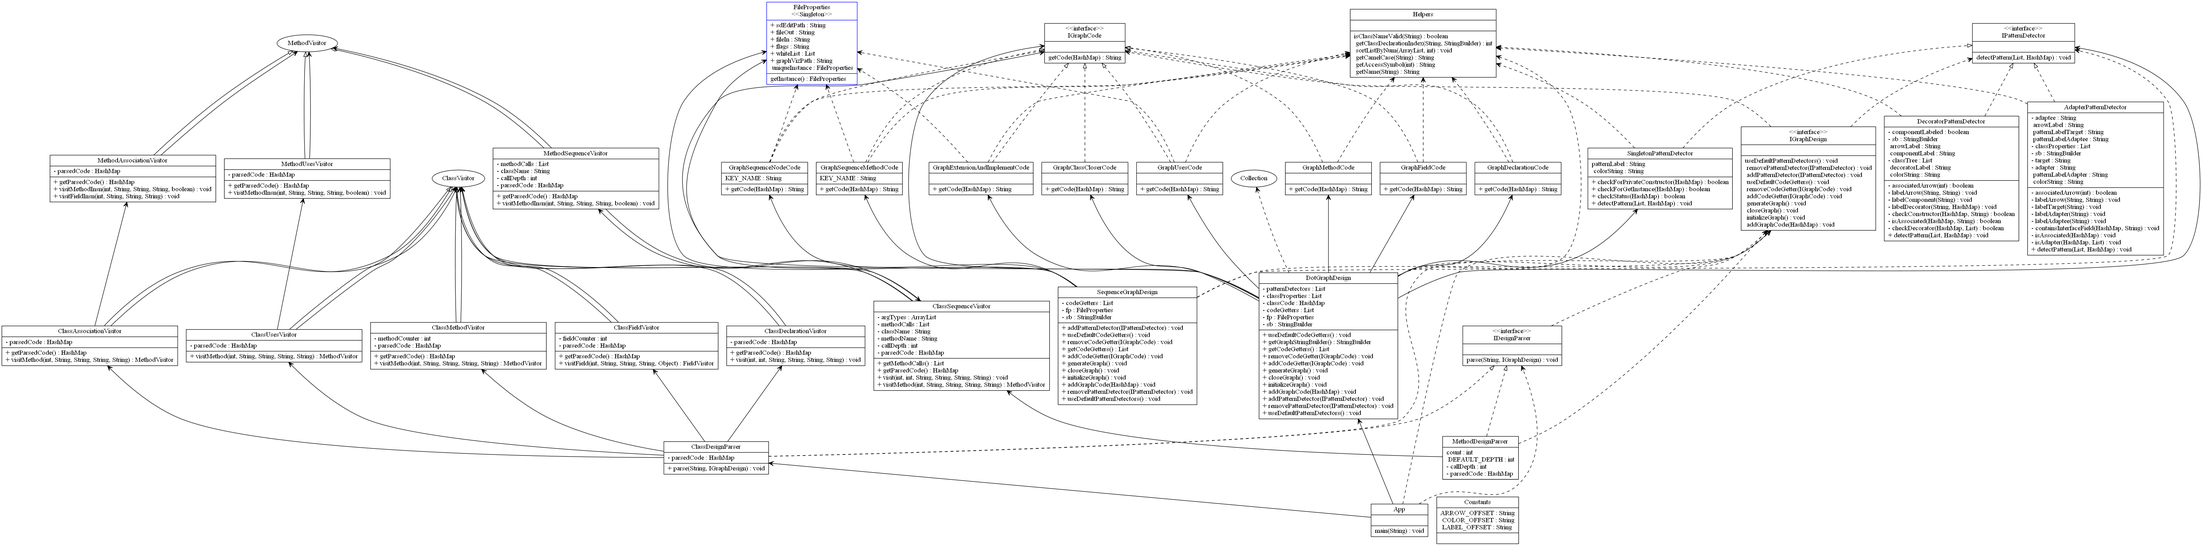
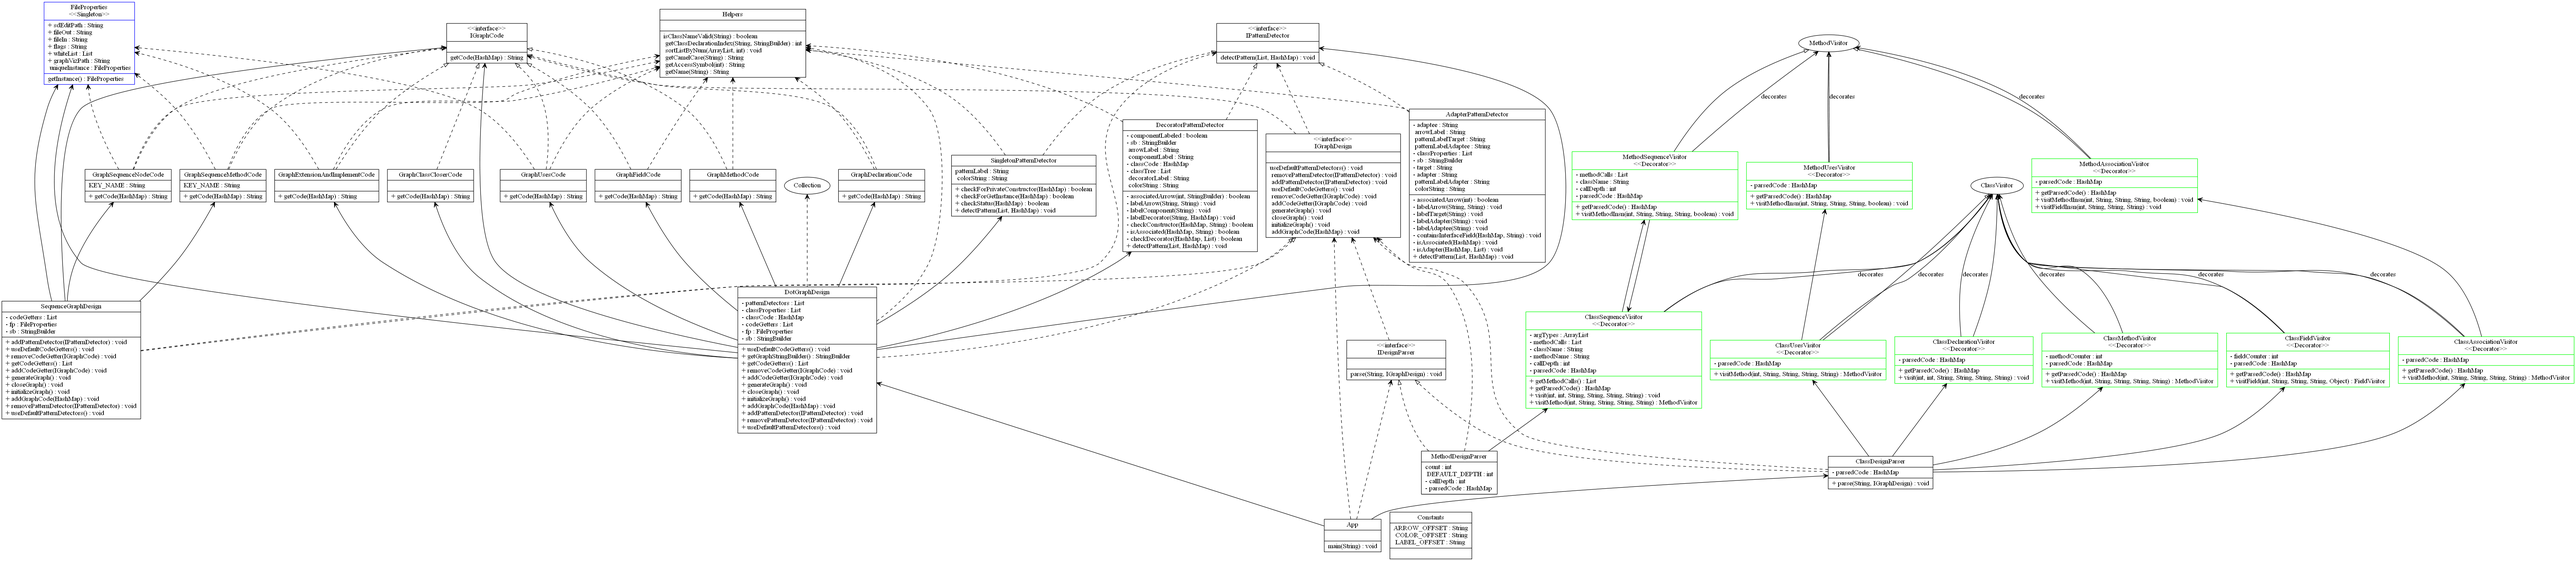
Refactored Decorator detector, works again

diff --git a/src/problem/patterns/DecoratorPatternDetector.java b/src/problem/patterns/DecoratorPatternDetector.java
@@ -17,6 +17,7 @@ public class DecoratorPatternDetector implements IPatternDetector {
 	private StringBuilder sb;
 	private boolean componentLabeled = false;
 	private List<HashMap<String, String>> classTree = new ArrayList<>();
+	private HashMap<String, String> classCode = new HashMap<>();
 
 	public DecoratorPatternDetector() {
 	}
@@ -24,7 +25,7 @@ public class DecoratorPatternDetector implements IPatternDetector {
 	@Override
 	public void detectPattern(List<HashMap<String, String>> classProperties,
 			HashMap<String, String> classCode) {
-//		this.sb = classCode;
+		this.classCode = classCode;
 		for (HashMap<String, String> code : classProperties) {
 			String classKey = Helpers.getName(code.get("className"));
 			this.sb = new StringBuilder(classCode.get(classKey));
@@ -36,13 +37,13 @@ public class DecoratorPatternDetector implements IPatternDetector {
 	}
 
 	private boolean checkDecorator(HashMap<String, String> code,
-			List<HashMap<String, String>> classCode) {
+			List<HashMap<String, String>> classProperties) {
 		if (code.get("decorator") != null) {
 			return true;
 		}
 		String currentClass = code.get("className");
 		String currentExtends = code.get("extends");
-		for (HashMap<String, String> c : classCode) {
+		for (HashMap<String, String> c : classProperties) {
 			String otherClass = c.get("className");
 			if (currentClass.equals(otherClass)) {
 				continue;
@@ -55,7 +56,7 @@ public class DecoratorPatternDetector implements IPatternDetector {
 					return true;
 				} else {
 					this.classTree.add(code);
-					if (checkDecorator(c, classCode)) {
+					if (checkDecorator(c, classProperties)) {
 						labelDecorator(c.get("className"), c);
 						labelDecorator(code.get("className"), code);
 						c.put("decorator", "true");
@@ -95,7 +96,6 @@ public class DecoratorPatternDetector implements IPatternDetector {
 			if (s.contains("method")) {
 				String method = code.get(s);
 				String[] methodProps = method.split(":");
-				// int access = Integer.parseInt(methodProps[0]);
 				String name = methodProps[1];
 				if (name.equals("<init>")) {
 					String argTypesString = methodProps[2];
@@ -131,19 +131,15 @@ public class DecoratorPatternDetector implements IPatternDetector {
 			return;
 		}
 		String name = Helpers.getName(className);
-		int classIndex = Helpers.getClassDeclarationIndex(name, sb);
-		if (classIndex == -1) {
-			return;
-		}
-		int colorOffset = this.sb.indexOf(Constants.COLOR_OFFSET,
-				classIndex);
-		this.sb.replace(colorOffset,
+		StringBuilder sb = new StringBuilder(this.classCode.get(name));
+		int colorOffset = sb.indexOf(Constants.COLOR_OFFSET);
+		sb.replace(colorOffset,
 				colorOffset + Constants.COLOR_OFFSET.length(), colorString);
-		int labelOffset = this.sb.indexOf(Constants.LABEL_OFFSET,
-				classIndex);
-		this.sb.replace(labelOffset,
+		int labelOffset = sb.indexOf(Constants.LABEL_OFFSET);
+		sb.replace(labelOffset,
 				labelOffset + Constants.LABEL_OFFSET.length(),
 				decoratorLabel);
+		this.classCode.put(name, sb.toString());
 	}
 
 	private void labelComponent(String otherClass) {
@@ -151,24 +147,23 @@ public class DecoratorPatternDetector implements IPatternDetector {
 		// StringBuilder and labels it as a component
 		if (!componentLabeled) {
 			String className = Helpers.getName(otherClass);
-			className = Helpers.getName(otherClass);
-			int classIndex = Helpers.getClassDeclarationIndex(className,
-					this.sb);
-			if (classIndex == -1) {
+			if (this.classCode.get(className) == null) {
 				return;
 			}
-			System.out.println(className);
-			System.out.println(sb.substring(classIndex - 20, classIndex + 20));
-			int colorOffset = this.sb.indexOf(Constants.COLOR_OFFSET,
+			StringBuilder sb = new StringBuilder(this.classCode.get(className) );
+			int classIndex = Helpers.getClassDeclarationIndex(className,
+					sb);
+			int colorOffset = sb.indexOf(Constants.COLOR_OFFSET,
 					classIndex);
-			this.sb.replace(colorOffset,
+			sb.replace(colorOffset,
 					colorOffset + Constants.COLOR_OFFSET.length(), colorString);
-			int labelOffset = this.sb.indexOf(Constants.LABEL_OFFSET,
+			int labelOffset = sb.indexOf(Constants.LABEL_OFFSET,
 					classIndex);
-			this.sb.replace(labelOffset,
+			sb.replace(labelOffset,
 					labelOffset + Constants.LABEL_OFFSET.length(),
 					componentLabel);
 			componentLabeled = true;
+			this.classCode.put(className, sb.toString());
 		}
 	}
 
@@ -176,15 +171,12 @@ public class DecoratorPatternDetector implements IPatternDetector {
 		// Given a className, finds that class in the
 		// StringBuilder and labels the correct arrow as the decorates arrow
 		String className = Helpers.getName(currentClass);
-		otherClass = Helpers.getName(otherClass);
 		String otherClassName = Helpers.getName(otherClass);
-		int classIndex = Helpers.getClassDeclarationIndex(className, sb);
-		if (classIndex == -1) {
-			return;
-		}
+		StringBuilder sb = new StringBuilder(this.classCode.get(className));
+		int classIndex = 0;
 		int otherClassIndex;
 		while ((otherClassIndex = sb.indexOf(otherClassName, classIndex)) != -1) {
-			if (associatedArrow(otherClassIndex)) {
+			if (associatedArrow(otherClassIndex, sb)) {
 				break;
 			}
 			classIndex = otherClassIndex + 1;
@@ -195,9 +187,10 @@ public class DecoratorPatternDetector implements IPatternDetector {
 		int arrowOffset = sb.indexOf(Constants.ARROW_OFFSET, otherClassIndex);
 		sb.replace(arrowOffset, arrowOffset + Constants.ARROW_OFFSET.length(),
 				arrowLabel);
+		this.classCode.put(className, sb.toString());
 	}
 
-	private boolean associatedArrow(int index) {
+	private boolean associatedArrow(int index, StringBuilder sb) {
 		// Given an index in a StringBuilder to an arrow, returns
 		// true if it is an associated arrow, false otherwise
 		int arrowheadIndex = sb.indexOf("arrowhead", index);

diff --git a/src/problem/DotGraphDesign.java b/src/problem/DotGraphDesign.java
@@ -129,7 +129,7 @@ public class DotGraphDesign implements IGraphDesign {
 	@Override
 	public void useDefaultPatternDetectors() {
 		addPatternDetector(new SingletonPatternDetector());
-//		addPatternDetector(new DecoratorPatternDetector());
+		addPatternDetector(new DecoratorPatternDetector());
 //		addPatternDetector(new AdapterPatternDetector());
 	}
 
